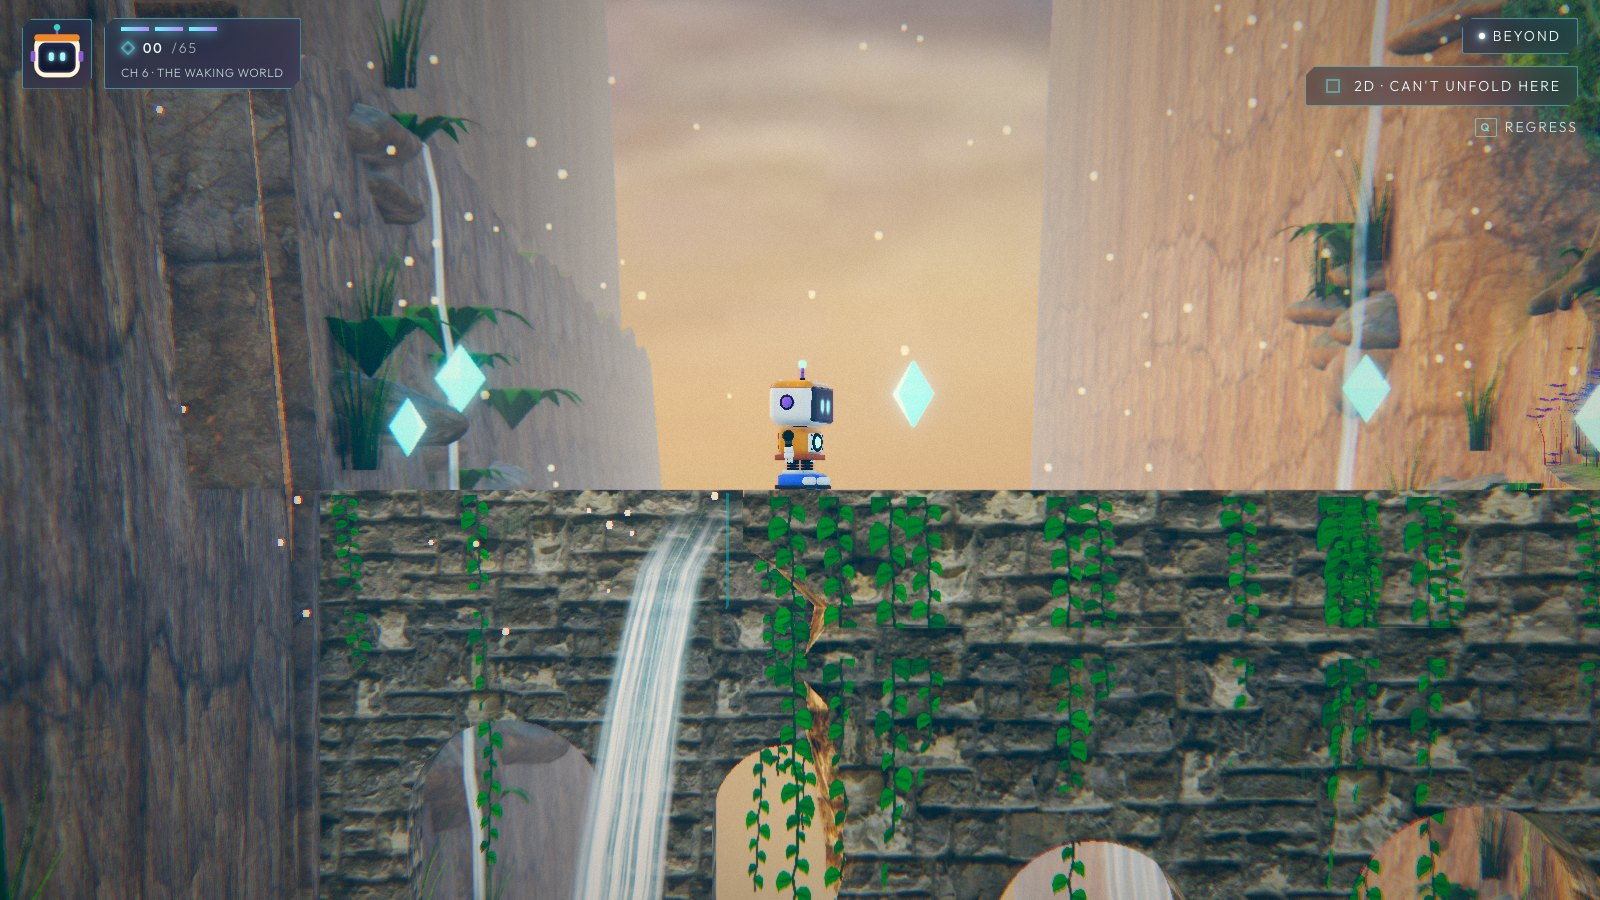
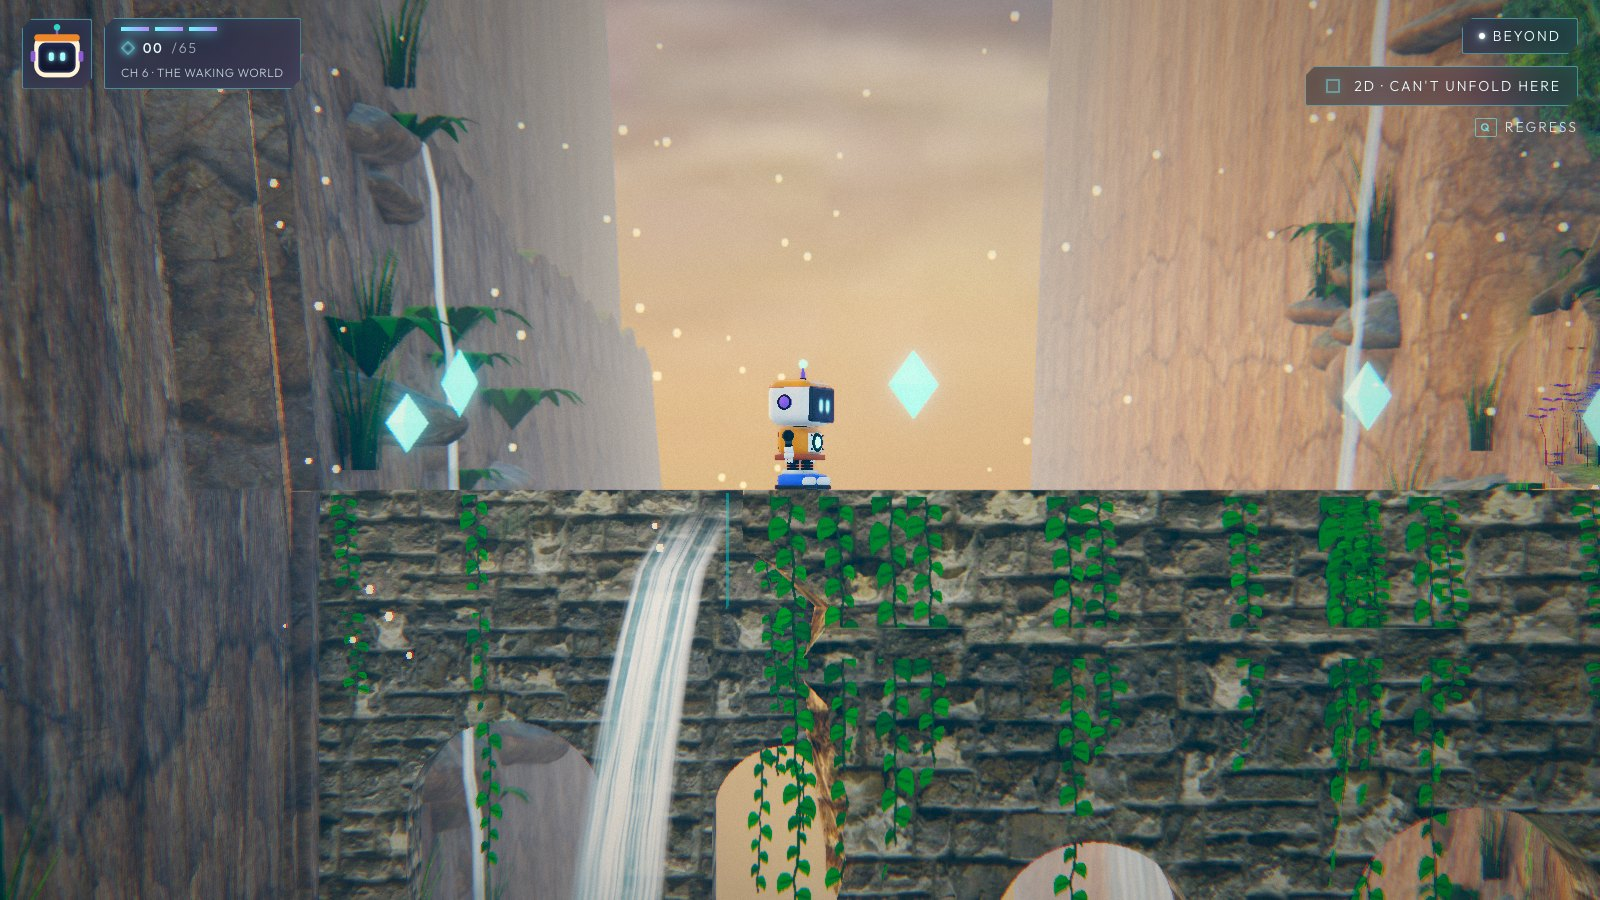
Phase 7 audit, traversal and QA docs; after screenshots
docs/AUDIT.md: findings with causes, what was built, tests, measured
performance (incl. camera collision CPU cost), and what is not done or not
verified. README, ASSETS, QA and the graphics report updated.

diff --git a/docs/AUDIT.md b/docs/AUDIT.md
@@ -1,0 +1,133 @@
+# Phase 7 audit: Modern HD and Beyond, camera, shift and level reliability
+
+This pass started from the Beyond scene in your screenshot (Pip apparently suspended between two stone slabs in
+a canyon, "2D · SHIFT BLOCKED") and, as agreed, stops after rebuilding that scene as the benchmark for your
+review. Everything below was built, tested and measured in this pass; nothing is estimated unless it says so.
+
+Screenshots: `docs/screens/before/` and `docs/screens/after/` (captured by `npm run screens` from the running game
+with Playwright; same scenarios, same cameras).
+
+## 1. Findings
+
+| # | Finding | Cause | Severity | Status |
+|---|---|---|---|---|
+| 1 | Pip appeared to stand in mid-air between two slabs on the aqueduct | The two halves sit at different depths (z −5.4 and +5.4) and only line up from the side, but the 2D camera sat 3.5 units above the deck, so perspective drew them a unit apart vertically and with a gap. Pip was on a valid 2D-only bridge. | High (the scene made no sense) | Fixed |
+| 2 | "2D · SHIFT BLOCKED" with no explanation | Intended: unfolding there would drop Pip into the canyon (the bridge exists only in 2D). The chip said only "blocked"; the toast didn't say where it would work. | Medium | Fixed |
+| 3 | The canyon was two flat slabs between sheer, featureless walls | Phase 6 made every height change a sheer face so puzzles can't be walked round, and drew it as plain extruded terrain. Nothing explained the slabs. | High | Fixed at the benchmark |
+| 4 | 3D camera filmed rock walls (e.g. on the aqueduct, the seal ridge behind Pip) | Camera collision tested boxes only; terrain was a height clamp at the camera point, not along the line of sight | High | Fixed |
+| 5 | Camera ended up inside platforms and thin walls when Pip stood close to them | A 1.6-unit minimum distance overrode the collision | High | Fixed |
+| 6 | Falling from a height, the landing was off screen | The chase target ignored the ground below | Medium | Fixed |
+| 7 | The far aqueduct half's secret (c7) could not be collected | The seal-door ridge sealed off its bank; every simulated attempt fell into the canyon | Medium | Fixed |
+| 8 | The seal door never sank when opened | Its collider was disabled but nothing lowered its mesh: Pip walked through a solid-looking wall | Medium | Fixed |
+| 9 | A generation change could make brambles solid around Pip | Switching generation (1–6 keys, once unlocked) while walking behind the 16-bit brambles; found by the fuzz | High (stuck inside a solid) | Fixed |
+| 10 | Beyond's glass faceplate could white out Pip's face | A mirror-like specular highlight when the low sun lines up with the camera | Low | Fixed |
+| 11 | Title screen did not look professional | Six clashing art styles behind the menu competing with the logo and buttons | — | Rebuilt |
+| 12 | No browser tests, no camera tests, no jump-reachability validation | — | — | Added |
+
+## 2. What was built
+
+**Title screen.** A composed scene built for the menu from the game's own assets and rendered by the game's
+renderer: Pip on a mossy slab above a pool, a waterfall over layered cliffs, a ruined terrace with a stone ring and
+banners, a floating island. Your draft's layout: logo and New Game / Continue / Settings / Art & Design /
+Generations on the left, the generation timeline (Pip's face in each style) top right, the "Break the Frame" card
+bottom right, input hints bottom left. Hovering or selecting a generation ripples the whole scene into it;
+left/right arrows and the bumpers step through. "Generations" opens the six-way comparison.
+
+**Perspective shift.**
+- The HUD chip names the reason: Land first, Off the lane, Lane blocked, No ground on lane, Can't unfold here.
+- A refused unfold on a 2D-only surface marks the nearest solid ground along the lane and says which way it is.
+- Flattening from 3D slides up to 0.9 along the lane when the exact spot is obstructed. It only lands on ground
+  with support on both sides of Pip's centre, never across a gap; otherwise the shift is refused as before.
+- On 2D-only bridges the camera's eye drops to deck height, so pieces at different depths meet on the horizon.
+- Each aqueduct half runs 1.5 past the middle, so the near one always overlaps the far one on screen; in 3D they
+  stay 9 units apart.
+
+**Camera.**
+- Five rays from Pip to the wanted camera position, against both colliders and terrain. The camera pulls in up to
+  the obstacle, never into it (the near plane follows).
+- It lifts over a blocked view, decided from the unlifted view so it can't pump up and down.
+- When Pip is pinned against a wall, the camera swings round to the clearer side.
+- Walls that already fade (facade, hedge, mural, alcove) no longer push the camera in.
+- A dithered cutaway dissolves trees, plants, rocks and ancient stone in a narrow cone between camera and Pip.
+  Shadows are unaffected, and the terrain never dissolves.
+- Framing: look-ahead in the direction of travel; over a drop the camera aims between Pip and the landing.
+- 2D in Modern HD and Beyond frames 14% closer, with gentler depth of field.
+
+**Level validation.** Pip measured by running the real controller, the route as a graph of the real colliders,
+every jump checked against the measurements; see `docs/TRAVERSAL.md`.
+
+**Debug overlay** (dev builds only, the backquote key):
+- Readout: generation, position, velocity, ground, perspective, shift eligibility and its exact reason, camera
+  distance and obstruction, checkpoint, fps, frame time, draw calls.
+- Layers drawn into the scene: collision boxes, Pip's bounds, camera rays, the route graph with jump arcs coloured
+  by spare room, the nearest unfold spot, fading occluders.
+
+**The benchmark: the broken aqueduct.** Rebuilt as a ruined Roman viaduct crossing a river canyon. Gameplay
+colliders unchanged.
+- Each half is a two-tier arched viaduct on its own piers, from the river to the deck, broken off in mid-canyon
+  (`scripts/blender/create_aqueduct.py`). The structure exists from Early 3D up.
+- Large, warm masonry projected at runtime; painted two-tone in Stylized.
+- Water runs along each deck's channel and pours off the break; the fallen span lies in the river.
+- Two cascades come down the canyon's far walls, with mist and foam.
+- About 120 rock outcrops with ferns on their ledges break up the walls; none rise between the 2D camera and the
+  lane.
+- Ivy hangs from the stone (more of it in Beyond), lavender grows on both banks, and a faint teal seam marks where
+  each half broke ("where the world folded").
+- Steep rock across the whole level now shows bedded strata in Modern HD and Beyond.
+
+## 3. Tests
+
+| Suite | Count | What it proves |
+|---|---:|---|
+| Vitest (headless) | 114 | Everything from Phase 6, plus the new suites below |
+| `shiftFeedback.test.ts` | 7 | Block labels, the unfold hint, deck alignment from five camera positions, no 3D route from the overlap, repeated shifts, mid-air refusal, slide limits at a pit lip |
+| `camera.test.ts` | 7 | ~1000 spots and four orbits across the level: never under the terrain, inside a solid, or without a line of sight to Pip; distance kept when clear; ridge handling; smooth turning; the landing kept in view |
+| `traversal.test.ts` | 7 | Pip measured; goal reachable along the safest route with room on every jump; no softlocks; checkpoints safe; every lane bit reachable; the 3D secrets collected by simulated play |
+| `qa.test.ts` additions | 2 | Sliding out from under a painted step; refusal when nothing is free |
+| `valley.test.ts` addition | 1 | The cut in the seal ridge leads only onto the far half (the door can't be bypassed) |
+| Playwright (real GPU) | 33 | 31 scenario × generation cases (no console, shader or asset errors; non-blank; colour-grid baseline); the title screen; the shift at three spots in the browser |
+
+Run: `npm test` (Vitest), `npm run test:e2e` (Playwright; refresh baselines with `UPDATE_BASELINES=1`).
+
+## 4. Performance
+
+Apple M4 Pro, Chrome, quality High, GPU time from `EXT_disjoint_timer_query_webgl2` around the whole frame
+(`window.__perf(3)` in dev builds), 3 s per sample, dev server.
+
+| Scene | Buffer | GPU mean / p95 (ms) | Draw calls | Triangles |
+|---|---|---:|---:|---:|
+| Title screen (Beyond) | 2259×1149 | 8.25 / 8.54 | 138 | 1.30 M |
+| Aqueduct, Beyond, 2D | 2259×1065 | 7.41 / 8.18 | 321 | 1.46 M |
+| Aqueduct, Beyond, 3D chase | 2259×1065 | 7.84 / 8.37 | 353 | 1.79 M |
+| Aqueduct, Beyond, high overview | 2259×1065 | 12.59 / 13.45 | 1,485 | 2.85 M |
+| Valley overview, Beyond | 2259×1149 | 12.86 / 13.87 | 625 | 2.34 M |
+| Plateau, Beyond, 2D | 2259×1149 | 9.19 / 9.35 | 397 | 1.66 M |
+| Hidden chamber, Beyond | 2259×1149 | 11.37 / 12.38 | 558 | 2.04 M |
+
+The gameplay views at the benchmark are well inside 60 fps (16.7 ms). The **high overview cameras miss the 12 ms
+p95 target** (13.45 and 13.87 ms); they show the most of the valley at once. The valley overview was 12.63 ms in
+Phase 6 at a 8% smaller buffer, so most of the difference is resolution, not this pass (not separately measured).
+**Camera collision cost** (CPU, measured in Node on the same machine): 48–76 µs per camera step with the rays
+against ~300 boxes and the terrain, against ~1 µs without; at 60 fps (two fixed steps per frame) that is 0.10–0.15 ms
+of a 16.7 ms frame. Cheap enough; a broad-phase grid for the boxes would cut it further if needed.
+
+Shipped assets: 13.8 MB (budget 15 MB): `aqueduct.glb` 56 KB, `ui/pip_hd.webp` 12 KB added. No new downloads were
+needed (the plan allowed up to 3 Poly Haven sets and an 18 MB budget; neither was used). JS bundle 1.63 MB
+(479 KB gzipped); the debug overlay and scenarios are not in it.
+
+## 5. Not done, or not verified
+
+- **The rest of Modern HD and Beyond** (opening valley, ruins, passage, Painted Stair, plateau, relief cliff,
+  summit) has not had the benchmark treatment. That is the next phase, after your review.
+- **The high overview cameras** are over the 12 ms target (above).
+- **The title screen's 8-bit and 16-bit looks** are the 3D scene through the pixel filter, not the tile renderers
+  (those are 2D-only).
+- **The cutaway** was checked by eye in one spot (inside a tree canopy) and by shader compile; there is no
+  automated check that it never produces artifacts.
+- **Camera tests** are headless (positions and rays); "Pip is visible" is judged by line of sight to his upper body,
+  not from rendered pixels.
+- **The new art** follows your reference in composition and materials, but not in fidelity: it is real-time
+  geometry built by script, not a painting.
+- **Sound** for the aqueduct (water) was not added.
+- **Expert shortcuts** remain possible (e.g. clearing the plateau pit without the moving platform); listed in
+  `docs/TRAVERSAL.md`, judged harmless.

diff --git a/README.md b/README.md
@@ -7,7 +7,9 @@ puzzle tool. The same world **shifts between a 2D side-scroller and full 3D**.
 ```bash
 npm install
 npm run dev            # http://localhost:5173
-npm test               # 92 simulation tests, including a bot that plays new game → ending
+npm test               # 114 simulation tests, including a bot that plays new game → ending
+npm run test:e2e       # 33 browser tests on the real GPU (Playwright): every scenario × generation
+npm run screens        # screenshots of every dev scenario into docs/screens/latest
 npm run build          # typecheck + production build
 npm run assets:build   # rebuild every 3D asset from the Blender scripts (needs Blender 5.3)
 ```
@@ -60,6 +62,16 @@ See **docs/GRAPHICS_REPORT.md** for measurements and shortcomings, and **docs/AS
 licences. In-game: Extras → Environment compares any view across all six generations. Desktop only (keyboard or
 gamepad); phones get a notice.
 
+## Development tools (dev builds only)
+
+- **Scenarios:** `?scenario=aqueduct` (also `start`, `ruins`, `ruins3d`, `chamber`, `stair`, `plateau`,
+  `aqueduct3d`, `aqueductView`, `seal`, `summit`) starts in a fixed state without touching your save. Add
+  `&era=0..5`, `&mode=2d|3d`, `&freeze=1`.
+- **Debug overlay:** the backquote key. Generation, position, velocity, ground, shift eligibility and the exact
+  reason it's blocked, camera obstruction, fps, draw calls; layers for collision boxes, camera rays, the route
+  graph and more.
+- **GPU timing:** `await window.__perf(3)` in the console.
+
 ## Architecture
 
 ```
@@ -81,6 +93,7 @@ src/test/     Vitest suites + a bot that plays the whole game through the real i
 
 ## Verification
 
-`npm test` runs 92 tests: a full bot playthrough, a resume matrix, fuzz, Halo Path rules, valley height-field
-collision across the whole level (no puzzle can be walked round), readability (nothing hides Pip or an enemy),
-and the 8-bit palette and tile limits. See **QA.md** for the browser pass.
+`npm test` runs 114 tests: a full bot playthrough, a resume matrix, fuzz, Halo Path rules, valley height-field
+collision across the whole level (no puzzle can be walked round), readability, the 8-bit palette and tile limits,
+the 3D camera across the whole level, shift feedback, and traversal (every jump checked against Pip's measured
+jump; see **docs/TRAVERSAL.md**). `npm run test:e2e` runs the browser tests. See **QA.md** and **docs/AUDIT.md**.

diff --git a/QA.md b/QA.md
@@ -1,8 +1,8 @@
-# QA report: PIP — Beyond the Frame (phase 6)
+# QA report: PIP — Beyond the Frame (phase 7)
 
-Build: `tsc --noEmit` clean, `vite build` clean (one 1.59 MB chunk, 466 KB gzipped).
+Build: `tsc --noEmit` clean, `vite build` clean (one 1.63 MB chunk, 479 KB gzipped).
 
-## 1. Automated coverage (Vitest, headless): 92 / 92 passing
+## 1. Automated coverage: Vitest 114 / 114 (headless), Playwright 33 / 33 (real GPU)
 
 | Suite | What it proves |
 |---|---|
@@ -12,6 +12,10 @@ Build: `tsc --noEmit` clean, `vite build` clean (one 1.59 MB chunk, 466 KB gzipp
 | `chapter6.test.ts` (10) | The Halo Path's generation-rule obstacles |
 | `valley.test.ts` (11) | Lane heights exact for every ground section; every pit a deep gorge; gates can't be walked round; the plateau can't be reached without the Painted Stair; the hidden chamber is reachable; cliffs stop Pip; the camera never goes underground |
 | `readability.test.ts` (3) | No foreground prop covers any enemy patrol, the spawn or a checkpoint (footprints from each prop's largest variant) |
+| `camera.test.ts` (7) | 3D camera across ~1000 spots and four orbits: never under the terrain, inside a solid, or blind to Pip; smooth turning; landing kept in view |
+| `shiftFeedback.test.ts` (7) | Block reasons, the unfold hint, the aqueduct halves meeting on screen, slide limits, refusals |
+| `traversal.test.ts` (7) | Pip measured; the route, every jump, checkpoints, bits and 3D secrets checked against it (docs/TRAVERSAL.md) |
+| `e2e/scenarios.spec.ts` (33, Playwright) | Every scenario × generation: no console/shader/asset errors, non-blank, colour-grid baseline; title screen; shift in the browser |
 | `retro.test.ts` (5) | 8-bit tiles 16×16 in exactly three palette colours; hills/bushes two colours; sprites ≤ 3 colours; palette-only sky and clouds; tiles only from solids that exist in 8-bit |
 
 ## 2. Browser pass (Chrome, M4 Pro, dev server and production build)
@@ -35,7 +39,7 @@ Build: `tsc --noEmit` clean, `vite build` clean (one 1.59 MB chunk, 466 KB gzipp
 | Title screen: layout, focus states, save summary, keyboard navigation | ✅ |
 | Console during all of the above | ✅ no errors |
 
-## 3. Bugs found and fixed in this pass
+## 3. Bugs found and fixed (phase 6; phase 7's are in docs/AUDIT.md §1)
 
 | # | Bug | Fix |
 |---|---|---|

diff --git a/docs/ASSETS.md b/docs/ASSETS.md
@@ -42,6 +42,8 @@ Tree foliage is an original drawing (`scripts/textures/leaf-atlas.mjs`).
 | `public/assets/vegetation.glb` (grass, flowers, fern, pebbles, twigs, leaf litter, clover, thistle) | `assets/blender/vegetation/ground_cover.blend` | `scripts/blender/create_vegetation.py` |
 | `public/assets/gateway.glb` (arch, column, stone blocks, chamber walls, aqueduct, relief cliff) | `assets/blender/environments/ancient_stone.blend` | `scripts/blender/create_gateway.py` |
 | `public/assets/props.glb` (mushroom cluster, signpost) | `assets/blender/props/scenery_props.blend` | `scripts/blender/create_props.py` |
+| `public/assets/aqueduct.glb` (the two viaduct halves, fallen stones; masonry projected at runtime) | `assets/blender/environments/aqueduct.blend` | `scripts/blender/create_aqueduct.py` (deck sizes from the level's colliders) |
+| `public/ui/pip_hd.webp` (title screen card) | Rendered from `pip.glb` | `scripts/blender/render_ui_art.py`, `scripts/textures/ui-art.mjs` |
 | `public/assets/terrain.glb` | `assets/blender/environments/valley_terrain.blend` | `scripts/blender/create_terrain.py` (heights from `src/game/level/valley.ts`) |
 | `public/assets/textures/*_albedo.ktx2`, `*_normal.webp` | Poly Haven sets above | `scripts/build-terrain-textures.mjs`, `scripts/textures/ktx2.mjs` |
 | `public/assets/sky/{day,golden}_*` | The two HDRIs | `scripts/blender/create_sky.py` |
@@ -62,9 +64,11 @@ Tree foliage is an original drawing (`scripts/textures/leaf-atlas.mjs`).
 | pip.glb | 5,164 KB | 643 KB |
 | rocks.glb | 9,002 KB | 355 KB |
 | props.glb | 1,584 KB | 292 KB |
+| aqueduct.glb | 204 KB | 56 KB |
+| ui/pip_hd.webp | — | 12 KB |
 | vegetation.glb | 75 KB | 35 KB |
 | textures (7 KTX2 colour + 7 WebP normal/height) | — | 5,540 KB |
 | skies (2 × HDR + JPEG + JSON) | — | 824 KB |
 | retro (16-bit tiles, parallax, sprite sheet) | — | 64 KB |
 | Basis transcoder (`public/basis`) | — | 576 KB |
-| **Total** | | **13.7 MB** (budget 15 MB) |
+| **Total** | | **13.8 MB** (budget 15 MB) |

diff --git a/docs/GRAPHICS_REPORT.md b/docs/GRAPHICS_REPORT.md
@@ -1,4 +1,10 @@
-# Graphics report — Phase 6
+# Graphics report
+
+**Phase 7** (the title screen, camera and shift reliability, level validation, and the broken aqueduct rebuilt as
+the benchmark for Modern HD and Beyond) is reported in **docs/AUDIT.md**, with its measurements. The Phase 6 report
+follows unchanged.
+
+## Phase 6
 
 Phase 5 built the opening valley as a 3D slice and listed what still fell short. Phase 6 worked through that list,
 plus new art direction (Modern HD darker and more advanced, Beyond richer still, 8-bit as a green landscape). Everything
